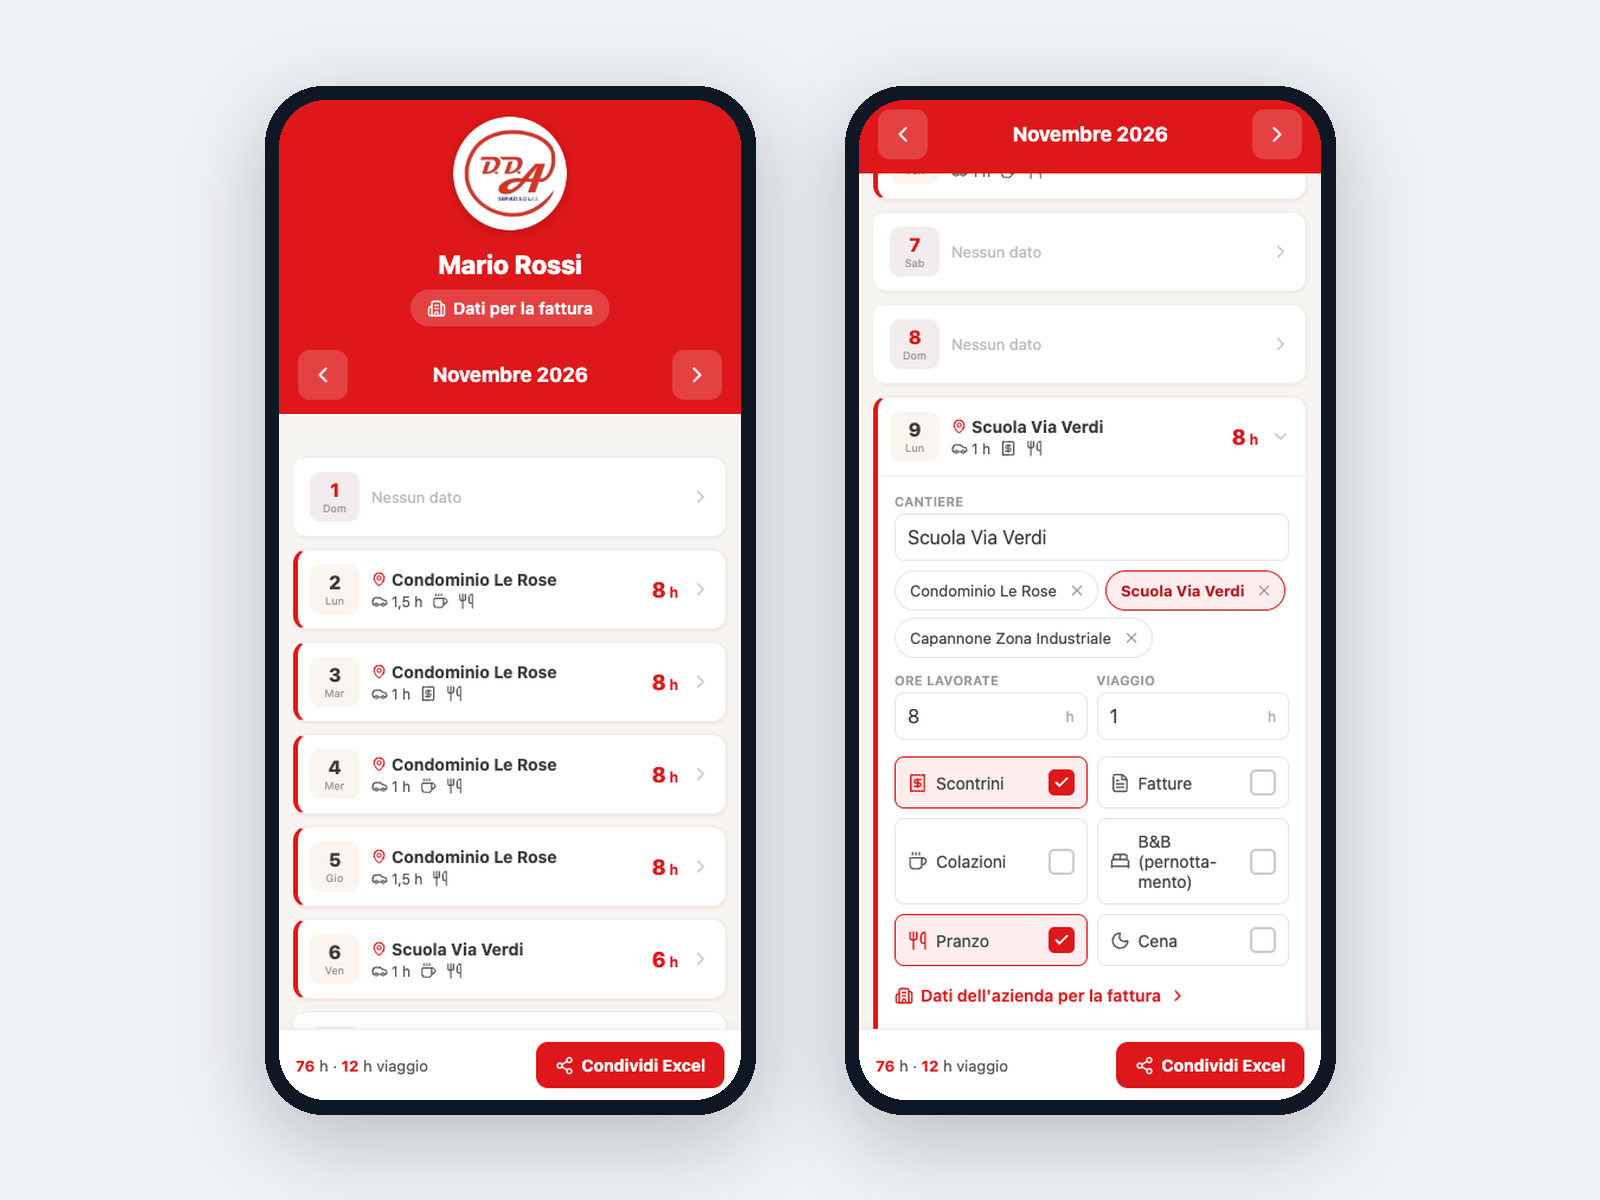
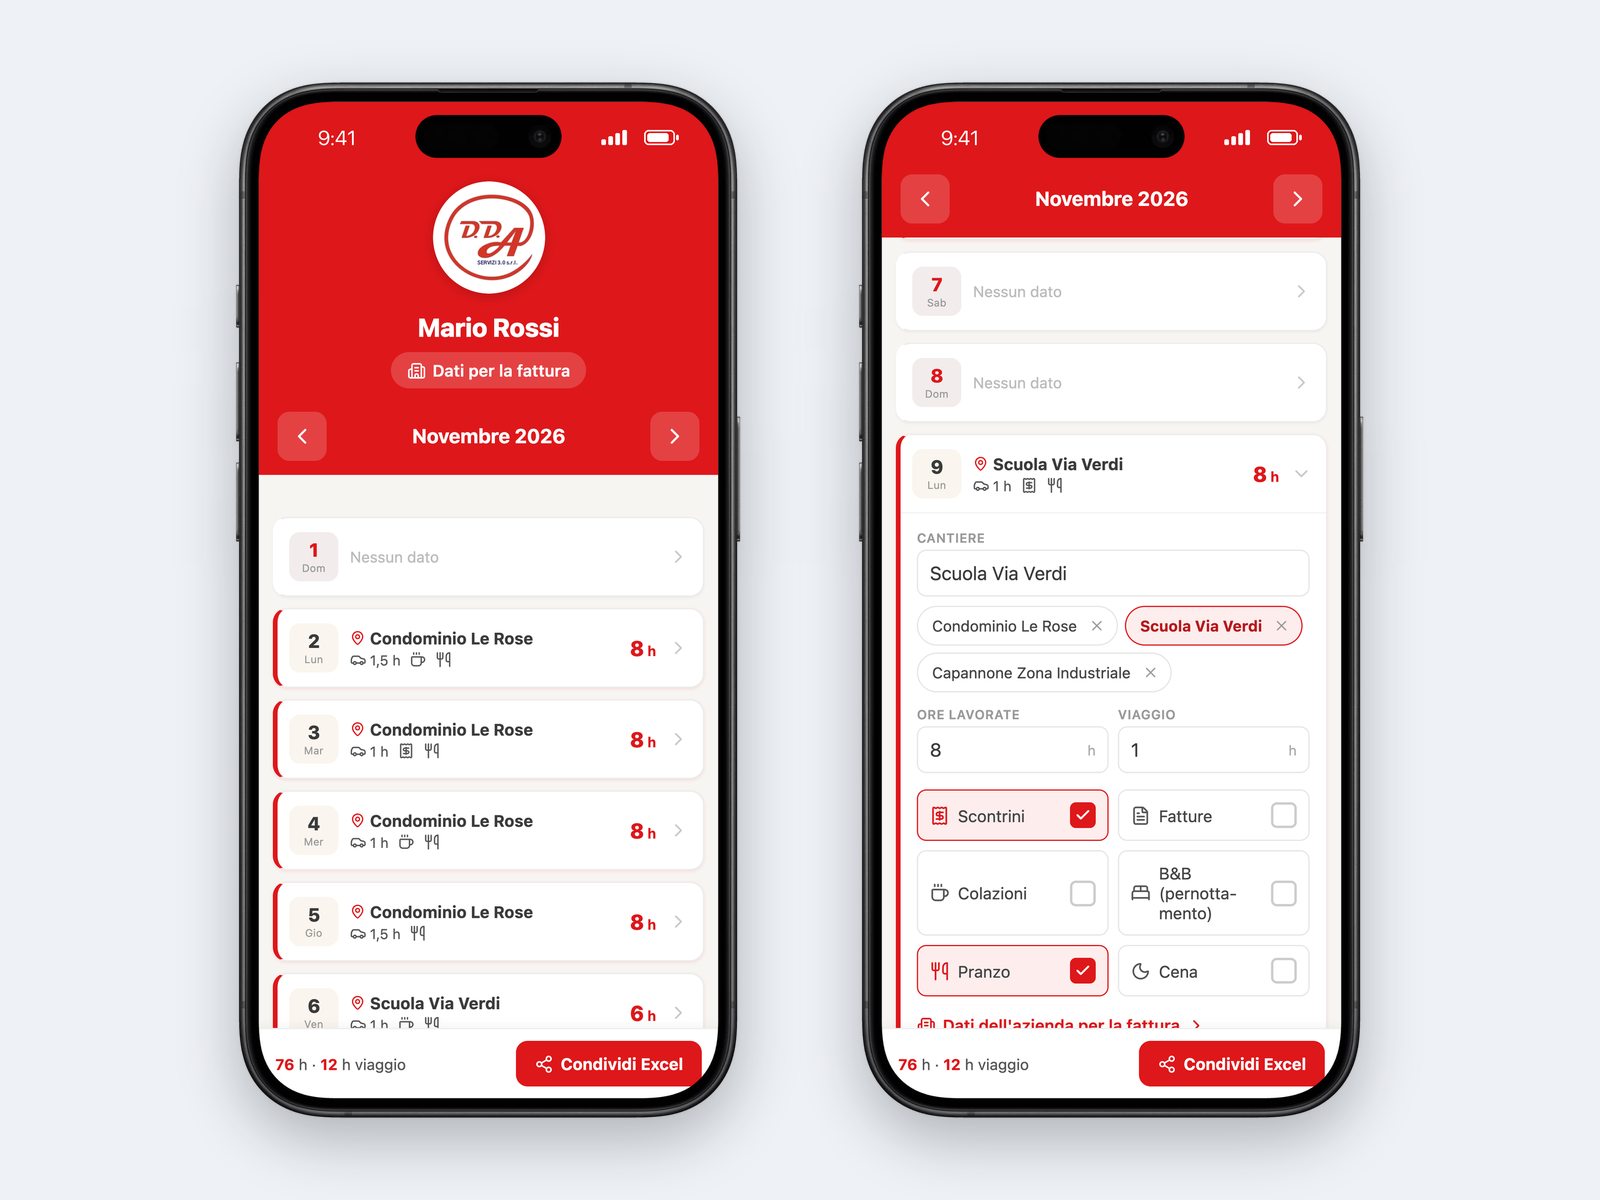
X e Telegram nella home; DDA dentro l'iPhone
- Intro: icone LinkedIn, GitHub, X e Telegram.
- Contatti: quattro pulsanti, due per riga (uno sotto l'altro su telefono).
- Immagine di DDA: le due schermate (dati di prova) dentro la cornice
  dell'iPhone, con la barra di stato sotto la Dynamic Island.

diff --git a/src/data/profilo.ts b/src/data/profilo.ts
@@ -13,8 +13,8 @@ export interface PathStep {
 export const profile = {
   name: 'Sasha',
 
-  // Contatti autorizzati da Sasha. LinkedIn e GitHub sono quelli in evidenza;
-  // gli altri compaiono solo nel footer.
+  // Contatti autorizzati da Sasha. LinkedIn, GitHub, X e Telegram sono nell'intro e nei
+  // Contatti della home; Instagram solo nel footer.
   linkedin: {
     url: 'https://www.linkedin.com/in/oleksandr-mazur-a62959217/',
   },

diff --git a/DESIGN.md b/DESIGN.md
@@ -84,13 +84,14 @@ nel blog è accesa «Articoli».
 
 1. **Intro**: etichetta «Studente ITS · Cloud e Cybersecurity», «Ciao! Sono» e il nome con
    TechText (allineato a sinistra), una frase, «Guarda i progetti» e «Leggi il blog»,
-   icone LinkedIn e GitHub.
+   icone LinkedIn, GitHub, X e Telegram.
 2. **01 Progetti**: schede grandi, immagine 4:3 a sinistra e a destra numero, categoria,
    titolo, descrizione e link. Pubblici da GitHub, privati scritti a mano.
 3. **02 Percorso**: le tappe in fila, orizzontali da 54rem e verticali su telefono.
 4. **03 Studio ITS**: riquadro tratteggiato «In arrivo».
 5. **04 Articoli**: gli ultimi tre articoli.
-6. **05 Contatti**: LinkedIn e GitHub, niente modulo. Gli altri profili sono nel footer.
+6. **05 Contatti**: LinkedIn, GitHub, X e Telegram (due per riga), niente modulo.
+   Instagram e il feed RSS sono nel footer.
 
 ## Blog
 

diff --git a/CLAUDE.md b/CLAUDE.md
@@ -16,8 +16,8 @@ Pubblicazione: Cloudflare Pages con deploy automatico da GitHub.
   testi dei dati come `{ it, en }` in `src/data/`, articoli in `src/content/blog/<lingua>/`.
   Un articolo non tradotto compare nelle altre lingue con «Italian only».
 - Non inserire dati personali non forniti da Sasha (indirizzo, telefono, data di nascita…).
-  Contatti autorizzati: LinkedIn e GitHub `sasha2324` (in evidenza), Telegram `@s_ans3`,
-  Instagram `3s.ans`, X `3s_ans` (solo nel footer).
+  Contatti autorizzati: LinkedIn, GitHub `sasha2324`, X `3s_ans` e Telegram `@s_ans3`
+  (nell'intro e nei Contatti della home), Instagram `3s.ans` (solo nel footer).
 - Non presentare esperienze, lavori o certificazioni che Sasha non ha.
   Sasha è studente ITS in infrastrutture digitali (in corso).
 - Immagini dei progetti: niente dati veri di persone (per DDA solo dati di prova inventati),
